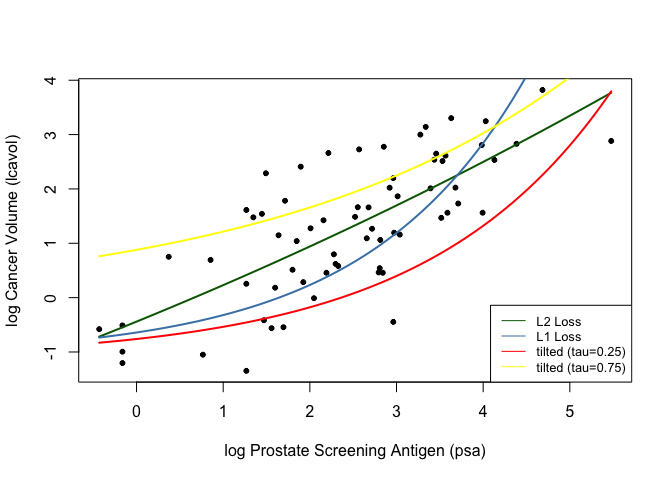
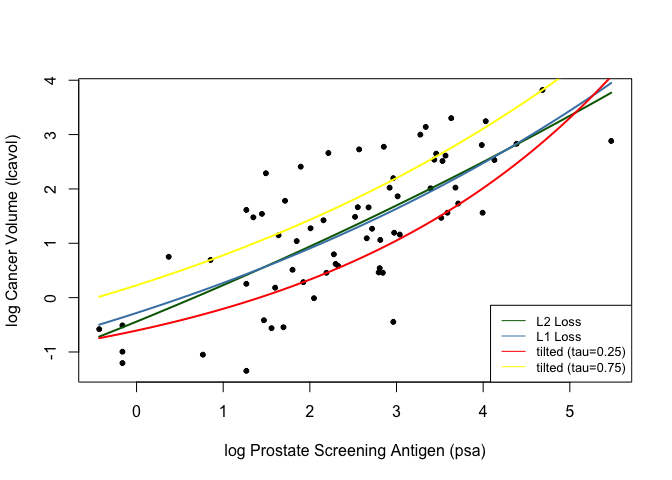
I resubmit the hw2

diff --git a/HW2/HW2-ZhanZ.md b/HW2/HW2-ZhanZ.md
@@ -1,7 +1,7 @@
 Homework 2
 ================
 Zhan, Zhuoyi
-Wed Feb 2 16:24:15 2022
+Tue Feb 8 16:11:34 2022
 
 ``` r
 ## load prostate data
@@ -140,7 +140,7 @@ ab_loss75 <- function(y, yhat,tau){
 ## fit simple linear model using numerical optimization
 fit_lin1 <- function(y, x, loss=L1_loss, beta_init = c(-0.51, 0.75)) {
   err <- function(beta)
-    median(loss(y,  beta[1] + beta[2]*x))
+    mean(loss(y,  beta[1] + beta[2]*x))
   beta <- optim(par = beta_init, fn = err)
   return(beta)
 }
@@ -168,7 +168,7 @@ lin_pred1 <- predict_lin1(x=x_grid, beta=lin_beta1$par)
 tau =0.25
 fit_lin2 <- function(y, x, loss=ab_loss, beta_init = c(-0.51, 0.75)) {
   err <- function(beta)
-    tau*max(loss(y,  beta[1] + beta[2]*x))
+    mean(loss(y,  beta[1] + beta[2]*x))
   beta <- optim(par = beta_init, fn = err)
   return(beta)
 }
@@ -188,7 +188,7 @@ lin_pred2 <- predict_lin2(x=x_grid, beta=lin_beta2$par)
 tau = 0.75
 fit_lin3 <- function(y, x, loss=ab_loss75, beta_init = c(-0.51, 0.75)) {
   err <- function(beta)
-    tau *max(loss(y,  beta[1] + beta[2]*x))
+    mean(loss(y,  beta[1] + beta[2]*x))
   beta <- optim(par = beta_init, fn = err)
   return(beta)
 }
@@ -252,7 +252,7 @@ lin_pred <- predict_lin(x=x_grid, beta=lin_beta$par)
 ## fit simple linear model using numerical optimization
 fit_lin1 <- function(y, x, loss=L1_loss, beta_init = c(-1.0, 0.0, -0.3)) {
   err <- function(beta)
-    median(loss(y,  beta[1] + beta[2]*exp(-beta[3]*x)))
+    mean(loss(y,  beta[1] + beta[2]*exp(-beta[3]*x)))
   beta <- optim(par = beta_init, fn = err)
   return(beta)
 }
@@ -280,7 +280,7 @@ lin_pred1 <- predict_lin1(x=x_grid, beta=lin_beta1$par)
 tau = 0.25
 fit_lin2 <- function(y, x, loss=ab_loss, beta_init = c(-1.0, 0.0, -0.3)){
   err <- function(beta)
-    tau * max(loss(y,  beta[1] + beta[2]*exp(-beta[3]*x)))
+    mean(loss(y,  beta[1] + beta[2]*exp(-beta[3]*x)))
   beta <- optim(par = beta_init, fn = err)
   return(beta)
 }
@@ -299,7 +299,7 @@ lin_pred2 <- predict_lin2(x=x_grid, beta=lin_beta2$par)
 # fit simple linear model using numerical optimization
 fit_lin3 <- function(y, x, loss=ab_loss75, beta_init = c(-1.0, 0.0, -0.3)){
   err <- function(beta)
-    max(loss(y,  beta[1] + beta[2]*exp(-beta[3]*x)))
+    mean(loss(y,  beta[1] + beta[2]*exp(-beta[3]*x)))
   beta <- optim(par = beta_init, fn = err)
   return(beta)
 }
